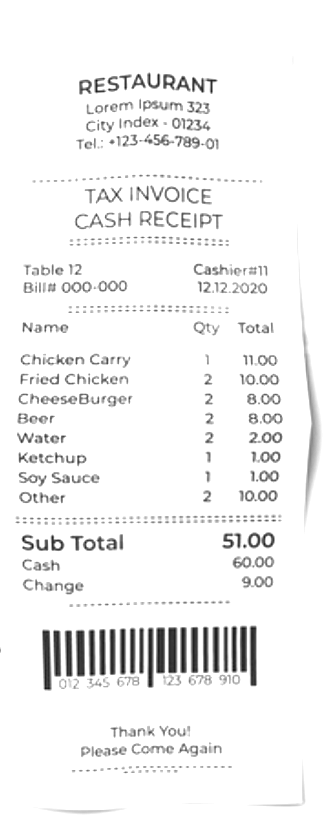
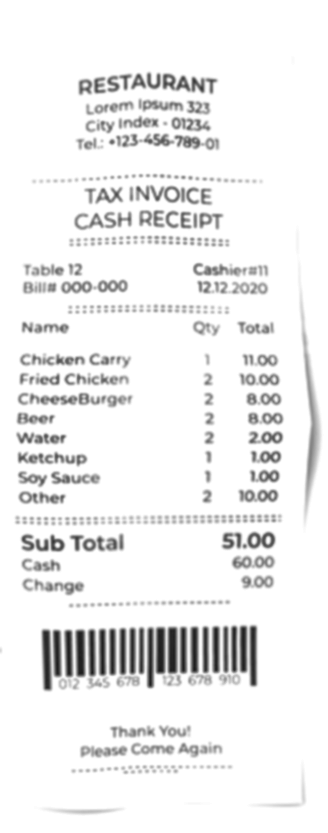
create function for denoise image

diff --git a/shoper.py b/shoper.py
@@ -49,10 +49,15 @@ class ShopBill:
     def processingImage(self):
         self.convertTograyImage(self.image)
         self.increaseContrast(self.gray_image) 
-        self.applyCLAHE(self.contrast_image)
+        self.getDeNoisedImage(self.contrast_image)
+        self.applyCLAHE(self.denoised_image)
 
     def convertTograyImage(self, img):
         self.gray_image = cv2.cvtColor(img, cv2.COLOR_BGR2GRAY)
+
+    def getDeNoisedImage(self, img):
+        #self.denoised_image = cv2.fastNlMeansDenoising(img, None, 10, 7, 21)
+        self.denoised_image  = cv2.GaussianBlur(img, (5, 5), 0)
 
     def increaseContrast(self, img):
         self.contrast_image = cv2.addWeighted(img, 1.5, np.zeros(img.shape, img.dtype), 0, -50)
